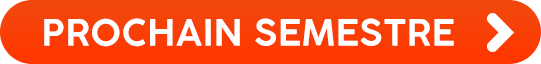
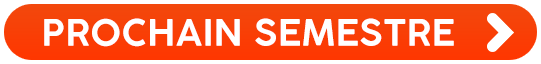
Ajout nombre de semestres + Amelioration bouton prochain semestre

Changed region(s): [[0.0, 0.0, 1.0, 1.0]]

diff --git a/src/resources/stylesheets/main.css b/src/resources/stylesheets/main.css
@@ -36,7 +36,9 @@
 #available-money {
     -fx-font-size: 16px;
 }
-
+#semester {
+    -fx-background-image: url('../images/semester.png');
+}
 
 /*
     2. BUTTONS
@@ -120,3 +122,7 @@
     -fx-cursor: hand;
     -fx-background-repeat: no-repeat;
 }
+
+/*
+
+ */

diff --git a/src/view/SemesterText.java b/src/view/SemesterText.java
@@ -1,0 +1,30 @@
+package view;
+
+import javafx.scene.paint.Color;
+import javafx.scene.text.Font;
+import javafx.scene.text.Text;
+
+import model.Semestre;
+import utils.ElementObserver;
+
+public class SemesterText extends Text implements ElementObserver {
+    public SemesterText(String txt) {
+        super(txt);
+        this.setFont(new Font("Roboto Bold", 25));
+        this.setFill(Color.WHITE);
+        this.setX(69);
+        this.setStyle("-fx-text-alignment: center;");
+        this.setY(50);
+    }
+
+    @Override
+    public void update() {
+        this.setText(String.valueOf(Semestre.getInstance().getSemestre()));
+        if(Semestre.getInstance().getSemestre() > 99) {
+            this.setX(53);
+        }
+        else if(Semestre.getInstance().getSemestre() > 9) {
+            this.setX(61);
+        }
+    }
+}

diff --git a/src/view/GameView.java b/src/view/GameView.java
@@ -16,6 +16,7 @@ import javafx.stage.StageStyle;
 import model.Indicator;
 import model.Lever;
 import model.LeverFamily;
+import model.Semestre;
 
 import java.util.ArrayList;
 import java.util.Arrays;
@@ -104,6 +105,12 @@ public class GameView {
                 }
             }
         }
+
+        AnchorPane footer = (AnchorPane) root.getChildren().get(2);
+        Pane semesterPane = (Pane) footer.getChildren().get(1); // Pane id semester
+        SemesterText semesterText = new SemesterText(String.valueOf(Semestre.getInstance().getSemestre()));
+        Semestre.getInstance().add(semesterText);
+        semesterPane.getChildren().add(semesterText);
 
         Stage stage = new Stage();
         stage.initStyle(StageStyle.UNDECORATED);
